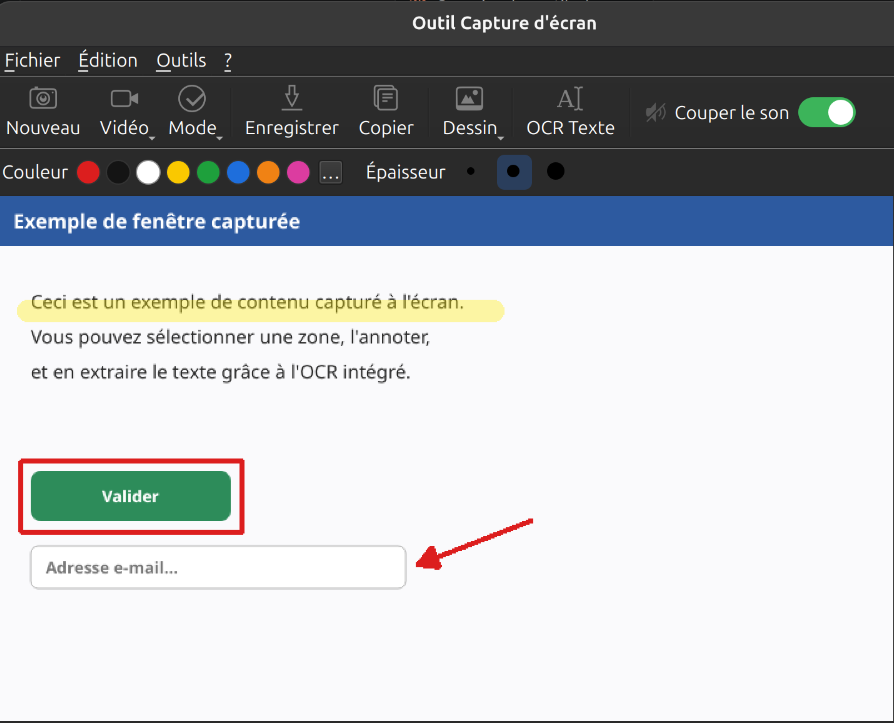
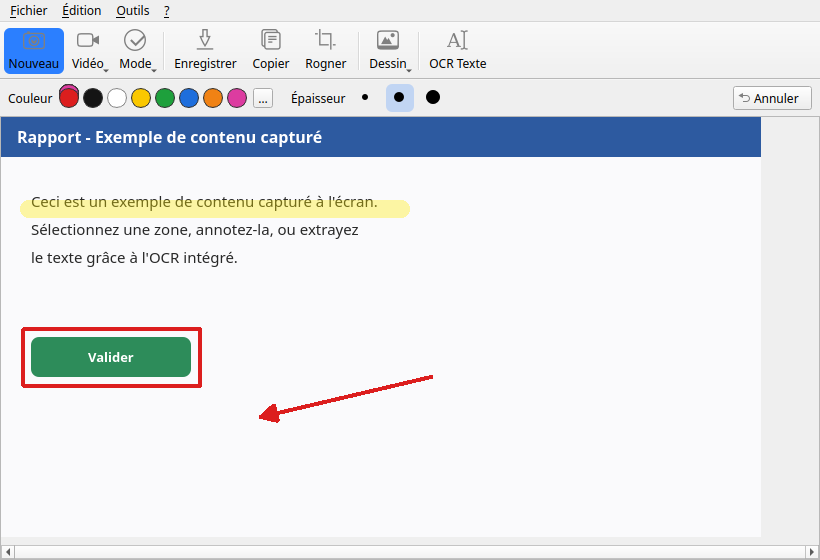
Refonte complète de la documentation et des captures d'écran
README réécrit en profondeur : présentation, comparatif détaillé avec
l'Outil Capture d'écran Windows, description de chaque fonctionnalité
avec exemples concrets, guide d'installation étape par étape,
configuration (raccourci global, son), utilisation, contribution,
roadmap, FAQ. Nouveau jeu de 9 captures d'écran (fenêtre principale,
les 4 menus, sélection OCR, rognage, floutage, enregistrement vidéo),
générées hors-écran à partir de contenu factice neutre — aucune
donnée réelle de l'utilisateur.

diff --git a/README.md b/README.md
@@ -1,45 +1,154 @@
 <p align="center">
-  <img src="data/icons/outil-capture-decran-128.png" alt="Icône Outil Capture d'écran" width="96">
+  <img src="data/icons/outil-capture-decran-128.png" alt="Icône Outil Capture d'écran" width="110">
 </p>
 
 <h1 align="center">Outil Capture d'écran</h1>
 
 <p align="center">
-  Capture d'écran façon Windows Snipping Tool pour Ubuntu — sélection de zone à la souris,
-  OCR avec sélection de texte directement sur l'image, annotation complète et enregistrement vidéo.
+  <b>L'Outil Capture d'écran de Windows n'existe pas sur Ubuntu — maintenant si.</b><br>
+  Capture, OCR, annotation complète et enregistrement vidéo, pensés pour GNOME/Wayland.
 </p>
 
 <p align="center">
   <img alt="Licence MIT" src="https://img.shields.io/badge/licence-MIT-blue.svg">
-  <img alt="Plateforme" src="https://img.shields.io/badge/plateforme-Ubuntu%20%7C%20Linux-orange.svg">
+  <img alt="Plateforme" src="https://img.shields.io/badge/plateforme-Ubuntu%2022.04%20%7C%2024.04%20%7C%2026.04-orange.svg">
   <img alt="Python" src="https://img.shields.io/badge/python-3-blue.svg">
   <img alt="Interface" src="https://img.shields.io/badge/interface-PyQt6-41cd52.svg">
-</p>
-
-## Aperçu
-
-<p align="center">
-  <img src="docs/screenshots/fenetre-principale.png" alt="Fenêtre principale avec une capture annotée" width="700">
+  <img alt="Statut" src="https://img.shields.io/badge/statut-actif-brightgreen.svg">
 </p>
 
 <p align="center">
-  <img src="docs/screenshots/selection-ocr.png" alt="Sélection de texte OCR directement sur l'image" width="700">
+  <img src="docs/screenshots/fenetre-principale.png" alt="Fenêtre principale de l'Outil Capture d'écran" width="720">
 </p>
+
+## Sommaire
+
+- [Présentation](#présentation)
+- [Pourquoi ce projet](#pourquoi-ce-projet)
+- [Fonctionnalités](#fonctionnalités)
+- [Comparatif avec l'Outil Capture d'écran Windows](#comparatif-avec-loutil-capture-décran-windows)
+- [Captures d'écran](#captures-décran)
+- [Installation](#installation)
+- [Configuration](#configuration)
+- [Utilisation](#utilisation)
+- [Structure du projet](#structure-du-projet)
+- [Contribution](#contribution)
+- [Roadmap](#roadmap)
+- [FAQ](#faq)
+- [Licence](#licence)
+
+## Présentation
+
+**Outil Capture d'écran** est une application native Ubuntu (PyQt6, GNOME/Wayland) qui reprend l'esprit de l'Outil Capture d'écran (Snipping Tool) de Windows — sélection rapide, annotation, OCR — sans dépendre de Windows. Le but n'est pas de cloner Windows à l'identique, mais d'offrir une **expérience aussi simple et directe**, adaptée aux usages et à l'environnement Ubuntu : portail `xdg-desktop-portal`, intégration GNOME, icônes du thème système, gestion correcte de Wayland.
+
+Interface pensée pour être prise en main immédiatement : une barre d'outils iconée, un clic sur **Nouveau** pour démarrer, et tout le nécessaire pour capturer, annoter et partager en quelques secondes.
+
+## Pourquoi ce projet
+
+Sous Windows, l'Outil Capture d'écran est intégré, rapide, et suffit à 90 % des besoins du quotidien (partager une erreur, annoter une image, extraire du texte). Sous Ubuntu, rien d'équivalent n'est installé par défaut : les alternatives existantes sont soit trop limitées (une simple capture sans annotation ni OCR), soit trop complexes à configurer. Ce projet comble ce manque avec un outil unique, gratuit, open source, et pensé dès le départ pour Wayland — la session par défaut des Ubuntu récentes.
 
 ## Fonctionnalités
 
-- **Capture d'écran** en session X11 ou Wayland (portail `xdg-desktop-portal`), avec sélection de zone à la souris avant la prise de vue, capture d'une fenêtre ou du plein écran.
-- **OCR (reconnaissance de texte)** via Tesseract : le texte détecté peut être sélectionné directement sur l'image avec la souris, puis copié (`Ctrl+C` ou clic droit).
-- **Annotation complète** : Stylet, Surligneur, Gomme, Rectangle, Ellipse, Ligne droite, Flèche, Floutage/pixellisation — couleur et épaisseur (Fin/Moyen/Épais) réglables depuis une barre d'options, et Annuler (`Ctrl+Z`).
-- **Rogner** la capture après coup, sans avoir à la refaire.
-- **Enregistrement vidéo** MP4 d'une zone sélectionnée à la souris ou du plein écran, nommé automatiquement par date et heure.
-- **Copier / Enregistrer** la capture annotée en PNG.
-- **Coupure du son du déclencheur** (menu Fichier).
-- **Raccourci clavier global** (à configurer une fois, voir plus bas) pour lancer une capture depuis n'importe où, sans avoir à ouvrir l'application au préalable.
+### 📸 Capture d'écran
+Trois façons de capturer : une fenêtre spécifique, une zone dessinée à la souris, ou l'écran entier. La sélection se fait *avant* la prise de vue (comme sous Windows) — vous voyez exactement ce que vous capturez, sans que l'application n'apparaisse dans le résultat.
 
-## Installation (Ubuntu)
+### 🔤 OCR — reconnaissance de texte
+Le texte détecté par Tesseract (français + anglais) est **directement sélectionnable sur la photo**, à la souris — glissez pour sélectionner, `Ctrl+C` ou clic droit pour copier. Plus simple qu'un panneau de texte séparé.
 
-Compatible Ubuntu **22.04**, **24.04** et **26.04** LTS.
+### ✏ Annotation complète
+Huit outils accessibles depuis le menu **Dessin ▾** : Stylet, Surligneur, Gomme, Rectangle, Ellipse, Ligne droite, Flèche, et Floutage/Pixellisation (pour masquer un mot de passe, un numéro, une donnée sensible avant de partager). Couleur (8 teintes + sélecteur personnalisé) et épaisseur (Fin / Moyen / Épais) réglables à la volée depuis une barre d'options contextuelle, avec Annuler (`Ctrl+Z`).
+
+### ✂ Rogner
+Pas besoin de refaire toute la capture si la sélection initiale n'était pas parfaite : **Rogner** permet de recadrer l'image après coup, avec aperçu en direct (zone conservée en clair, reste assombri) et validation explicite.
+
+### 🎬 Enregistrement vidéo
+Enregistrement MP4 d'une zone sélectionnée à la souris **ou du plein écran** (Windows 11 ne propose que la zone rectangulaire) — fichier nommé et horodaté automatiquement dans `~/Vidéos`. Le choix d'écran GNOME n'est demandé qu'une fois : mémorisé pour les enregistrements suivants.
+
+### ⌨ Raccourci clavier global
+Une fois configuré (voir [Configuration](#configuration)), lance une capture depuis n'importe où sur le bureau, sans avoir à ouvrir l'application au préalable.
+
+### 🔇 Confort d'usage
+Coupure du son du déclencheur (menu Fichier), fenêtre qui s'ajuste automatiquement à la taille de la capture, flash visuel de confirmation, icône propre dans le dock GNOME.
+
+## Comparatif avec l'Outil Capture d'écran Windows
+
+| | Snipping Tool (Windows) | Outil Capture d'écran (Ubuntu) |
+|---|:---:|:---:|
+| Capture zone / fenêtre / plein écran | ✅ | ✅ |
+| OCR | ✅ (panneau séparé) | ✅ **sélection directe sur la photo** |
+| Annotation (stylet, formes, flèche…) | ✅ | ✅ |
+| Floutage / pixellisation | ✅ | ✅ |
+| Rogner après capture | ✅ | ✅ |
+| Enregistrement vidéo | Zone rectangulaire uniquement | Zone **ou plein écran** |
+| Raccourci clavier global | ✅ natif | ✅ (une étape de configuration GNOME) |
+| Règle pour tracer des lignes parfaitement droites | ✅ | ⏳ voir [Roadmap](#roadmap) |
+| Gratuit et open source | ❌ propriétaire | ✅ licence MIT |
+| Fonctionne sur Ubuntu | ❌ | ✅ |
+
+## Captures d'écran
+
+<table>
+<tr>
+<td width="50%">
+<b>Fenêtre principale</b><br>
+Toolbar iconée, capture annotée, barre d'options de dessin.
+<br><img src="docs/screenshots/fenetre-principale.png" width="100%">
+</td>
+<td width="50%">
+<b>Menu Dessin ▾</b><br>
+Les 8 outils d'annotation disponibles.
+<br><img src="docs/screenshots/menu-dessin.png" width="100%">
+</td>
+</tr>
+<tr>
+<td width="50%">
+<b>Sélection de texte OCR</b><br>
+Le texte détecté se sélectionne directement sur l'image.
+<br><img src="docs/screenshots/selection-ocr.png" width="100%">
+</td>
+<td width="50%">
+<b>Rogner</b><br>
+Aperçu en direct de la zone conservée.
+<br><img src="docs/screenshots/mode-rognage.png" width="100%">
+</td>
+</tr>
+<tr>
+<td width="50%">
+<b>Floutage</b><br>
+Masquer une information sensible avant de partager.
+<br><img src="docs/screenshots/floutage.png" width="100%">
+</td>
+<td width="50%">
+<b>Menu Vidéo ▾</b><br>
+Enregistrement d'une zone ou du plein écran.
+<br><img src="docs/screenshots/menu-video.png" width="100%">
+</td>
+</tr>
+<tr>
+<td width="50%">
+<b>Menu Mode ▾</b><br>
+Choix du type de capture.
+<br><img src="docs/screenshots/menu-mode.png" width="100%">
+</td>
+<td width="50%">
+<b>Menu Fichier</b><br>
+Nouveau, Enregistrer sous, coupure du son, Quitter.
+<br><img src="docs/screenshots/menu-fichier.png" width="100%">
+</td>
+</tr>
+<tr>
+<td width="50%">
+<b>Enregistrement vidéo en cours</b><br>
+Indicateur flottant avec minuteur.
+<br><img src="docs/screenshots/enregistrement-video.png" width="100%">
+</td>
+<td width="50%"></td>
+</tr>
+</table>
+
+## Installation
+
+Compatible Ubuntu **22.04**, **24.04** et **26.04** LTS (GNOME).
 
 ```bash
 git clone https://github.com/moorenchristian-oss/Outil-Capture-d-ecran.git
@@ -47,42 +156,127 @@ cd Outil-Capture-d-ecran
 ./install.sh
 ```
 
-Installe les dépendances manquantes et ajoute l'application au menu Ubuntu. Peut être relancé sans risque.
+`install.sh` s'occupe de tout :
 
-Détails des dépendances et du lancement en mode développement : voir [docs/DEVELOPMENT.md](docs/DEVELOPMENT.md).
+1. Détecte la version d'Ubuntu (avertissement non bloquant si hors des versions testées).
+2. Installe les paquets système manquants via `apt` (mot de passe demandé si nécessaire) :
 
-## Utilisation
+   | Paquet | Rôle |
+   |---|---|
+   | `python3-pyqt6` | Interface graphique (installé via `pip --user` en repli sur Ubuntu 22.04, où ce paquet n'existe pas encore dans les dépôts) |
+   | `python3-dbus`, `python3-gi`, `gir1.2-glib-2.0` | Appels aux portails Wayland (capture d'écran, enregistrement vidéo) |
+   | `python3-xlib` | Capture d'écran en session X11 (repli ; Wayland est la cible principale) |
+   | `tesseract-ocr`, `tesseract-ocr-fra`, `tesseract-ocr-eng` | Reconnaissance de texte (OCR) |
+   | `wireplumber` | Coupure du son du déclencheur (`wpctl`) |
+   | `gstreamer1.0-tools`, `gstreamer1.0-pipewire`, `gstreamer1.0-plugins-good` | Lecture du flux PipeWire pour l'enregistrement vidéo |
 
-1. Cliquer sur **Nouveau** (ou choisir un mode dans le menu **Mode**), sélectionner la zone à capturer à la souris (sauf en mode Plein écran).
-2. Annoter la capture depuis la barre d'outils **Dessin** — couleur, épaisseur et Annuler apparaissent dans la barre juste au-dessus de l'image.
-3. Copier, enregistrer, ou lancer l'**OCR Texte** pour sélectionner et copier du texte directement sur la photo.
-4. Cliquer sur **Vidéo** pour enregistrer une zone sélectionnée à la souris ou le plein écran ; le fichier MP4 est enregistré automatiquement dans `~/Vidéos`.
+3. Ajoute **Outil Capture d'écran** au menu des applications Ubuntu, avec son icône.
+4. Crée un lanceur en ligne de commande : `~/.local/bin/outil-capture-decran`.
 
-## Raccourci clavier global
+Le script est **idempotent** : le relancer ne réinstalle que ce qui manque, sans risque.
 
-Contrairement à Windows, GNOME/Wayland ne permet pas à une application de réagir à un raccourci clavier tant qu'elle n'est pas déjà lancée. La solution : créer un raccourci personnalisé GNOME qui lance l'application directement en mode capture.
+Une fois installé, l'application apparaît dans le menu des applications comme n'importe quel logiciel Ubuntu.
+
+## Configuration
+
+### Couper le son du déclencheur
+Menu **Fichier → Couper le son du déclencheur** (case à cocher).
+
+### Raccourci clavier global
+
+GNOME/Wayland ne permet pas à une application de réagir à un raccourci tant qu'elle n'est pas déjà lancée (contrairement à Windows). La solution : un raccourci personnalisé GNOME qui lance l'application directement en mode capture.
 
 1. **Paramètres** → **Clavier** → **Voir et personnaliser les raccourcis** → **Raccourcis personnalisés** → **+**
 2. Nom : `Capture d'écran`
-3. Commande : `outil-capture-decran --capture` (ou le chemin complet si `~/.local/bin` n'est pas dans le PATH, ex. `/home/<utilisateur>/.local/bin/outil-capture-decran --capture`)
-4. Associer la combinaison de touches de son choix (ex. `Ctrl+Maj+S`)
+3. Commande : `outil-capture-decran --capture` (chemin complet si besoin : `/home/<utilisateur>/.local/bin/outil-capture-decran --capture`)
+4. Associer la combinaison de touches souhaitée (ex. `Ctrl+Maj+S`)
 
 Une fois configuré, ce raccourci fonctionne depuis n'importe où sur le bureau.
+
+## Utilisation
+
+### Prendre une capture
+1. Choisir un mode dans **Mode ▾** (Fenêtre ou Plein écran), puis cliquer **Nouveau**.
+2. En mode zone/fenêtre, dessiner la sélection à la souris — la photo est prise juste après.
+3. La fenêtre principale s'affiche automatiquement avec le résultat, dimensionnée à la taille de l'image.
+
+### Annoter
+1. Ouvrir **Dessin ▾** et choisir un outil.
+2. Ajuster couleur et épaisseur dans la barre qui apparaît sous la toolbar.
+3. Dessiner directement sur l'image. `Ctrl+Z` pour annuler une étape.
+
+### Extraire du texte (OCR)
+1. Cliquer **OCR Texte** (sur une capture existante, ou directement — une nouvelle capture sera demandée).
+2. Glisser la souris sur le texte à copier, `Ctrl+C` ou clic droit → Copier.
+
+### Rogner
+1. Cliquer **Rogner**, glisser pour définir la zone à conserver (la zone hors sélection s'assombrit).
+2. **Valider le rognage** ou **Annuler**.
+
+### Flouter une information sensible
+1. Choisir **Floutage** dans **Dessin ▾**.
+2. Glisser sur la zone à masquer — le texte/contenu devient illisible (pixellisé), la taille du pixel se règle avec Fin/Moyen/Épais.
+
+### Enregistrer une vidéo
+1. Cliquer **Vidéo ▾** → **Enregistrer une zone** (sélection à la souris) ou **Enregistrer le plein écran**.
+2. Choisir l'écran à partager dans la boîte de dialogue système GNOME (une seule fois, mémorisé ensuite).
+3. Un indicateur flottant affiche la durée ; cliquer **Arrêter** pour terminer. Le fichier MP4 est enregistré automatiquement dans `~/Vidéos`.
+
+### Enregistrer / copier le résultat
+**Enregistrer** (PNG, avec choix de l'emplacement) ou **Copier** (presse-papiers, prêt à coller).
 
 ## Structure du projet
 
 ```
-main.py               Point d'entrée de l'application
+main.py               Point d'entrée (gère aussi --capture pour le raccourci global)
 ui/                    Fenêtre principale, sélection OCR, barre d'options de dessin, widgets (PyQt6)
 capture/               Capture d'écran (X11 / portail Wayland), enregistrement vidéo, sélecteur de zone, son
 ocr/                   Moteur OCR (Tesseract)
-annotation/            Outils de dessin sur la capture (QPainter)
+annotation/            Outils de dessin, rognage et floutage sur la capture (QPainter)
 clipboard/             Presse-papiers (texte / image)
 database/              Historique des captures (SQLite)
 data/icons/            Icône de l'application et icônes de la barre d'outils
+docs/                  Documentation complémentaire et captures d'écran
 ```
 
-Voir aussi [PLAN.md](PLAN.md), [MEMOIRE.md](MEMOIRE.md) et [SCHEMA.md](SCHEMA.md) pour le détail de l'architecture.
+Voir aussi [PLAN.md](PLAN.md), [MEMOIRE.md](MEMOIRE.md) et [SCHEMA.md](SCHEMA.md) pour l'historique et le détail de l'architecture, et [docs/DEVELOPMENT.md](docs/DEVELOPMENT.md) pour le développement local.
+
+## Contribution
+
+Les contributions sont bienvenues, qu'il s'agisse d'un correctif, d'une nouvelle fonctionnalité ou d'une amélioration de la documentation.
+
+1. Forkez le dépôt et créez une branche depuis `master` (`git checkout -b ma-fonctionnalite`).
+2. Faites vos modifications en gardant le style existant (pas de dépendance ajoutée sans raison, pas de fichier `.desktop`/venv — le projet reste 100 % apt).
+3. Vérifiez que l'application se lance sans erreur (`python3 main.py`) avant de proposer votre changement.
+4. Ouvrez une Pull Request en décrivant le problème résolu ou la fonctionnalité ajoutée.
+
+Une idée, un bug ? Ouvrez une [issue](../../issues) — captures d'écran et étapes de reproduction sont toujours utiles.
+
+## Roadmap
+
+Pistes connues, non implémentées à ce jour :
+
+- 📏 Règle pour tracer des lignes/flèches parfaitement droites (à la manière du Snipping Tool Windows).
+- 🔤 Outil Texte (ajouter une légende directement sur l'image).
+- 🖱 Numérotation automatique (bulles numérotées pour des tutoriels pas à pas).
+- 🗂 Historique des captures consultable depuis l'application.
+
+## FAQ
+
+**Pourquoi la première capture/vidéo me demande une autorisation système ?**
+C'est le portail `xdg-desktop-portal` de Wayland qui protège l'accès à l'écran — aucune application, y compris celle-ci, ne peut capturer l'écran sans une confirmation explicite. Pour les captures photo, la demande est silencieuse une fois autorisée ; pour la vidéo, GNOME redemande l'écran à partager mais mémorise ensuite le choix.
+
+**Ça fonctionne en session X11 ?**
+Oui, avec un repli automatique sur `python3-xlib`/`mss`, mais Wayland (la session par défaut d'Ubuntu) est la cible principale et la mieux testée.
+
+**Où sont enregistrées mes captures et vidéos ?**
+Les captures se choisissent à l'enregistrement (par défaut `~/Images`) ; les vidéos sont automatiquement horodatées dans `~/Vidéos`.
+
+**Pourquoi pas de version Windows/macOS ?**
+Le projet répond spécifiquement au manque d'un tel outil sur Ubuntu — l'intégration (portails Wayland, thème d'icônes GNOME, PipeWire) est pensée pour cet environnement précis.
+
+**Mes données sont-elles envoyées quelque part ?**
+Non. Tout (capture, OCR, vidéo) se passe localement sur votre machine ; aucune connexion réseau n'est utilisée par l'application.
 
 ## Licence
 
